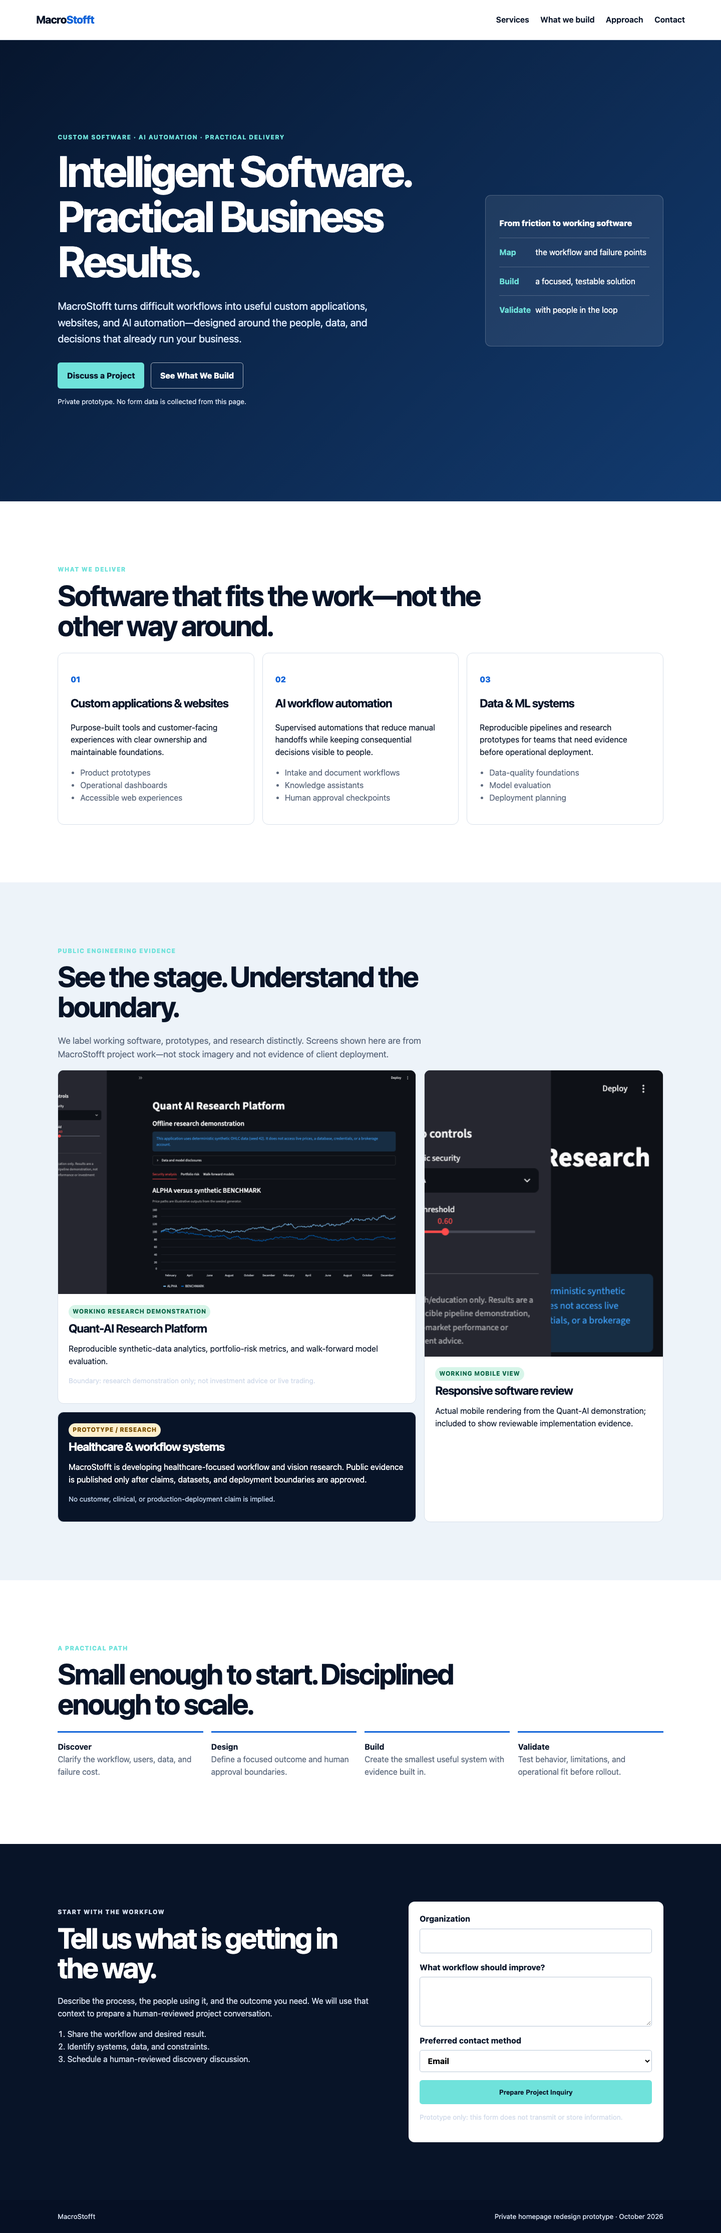
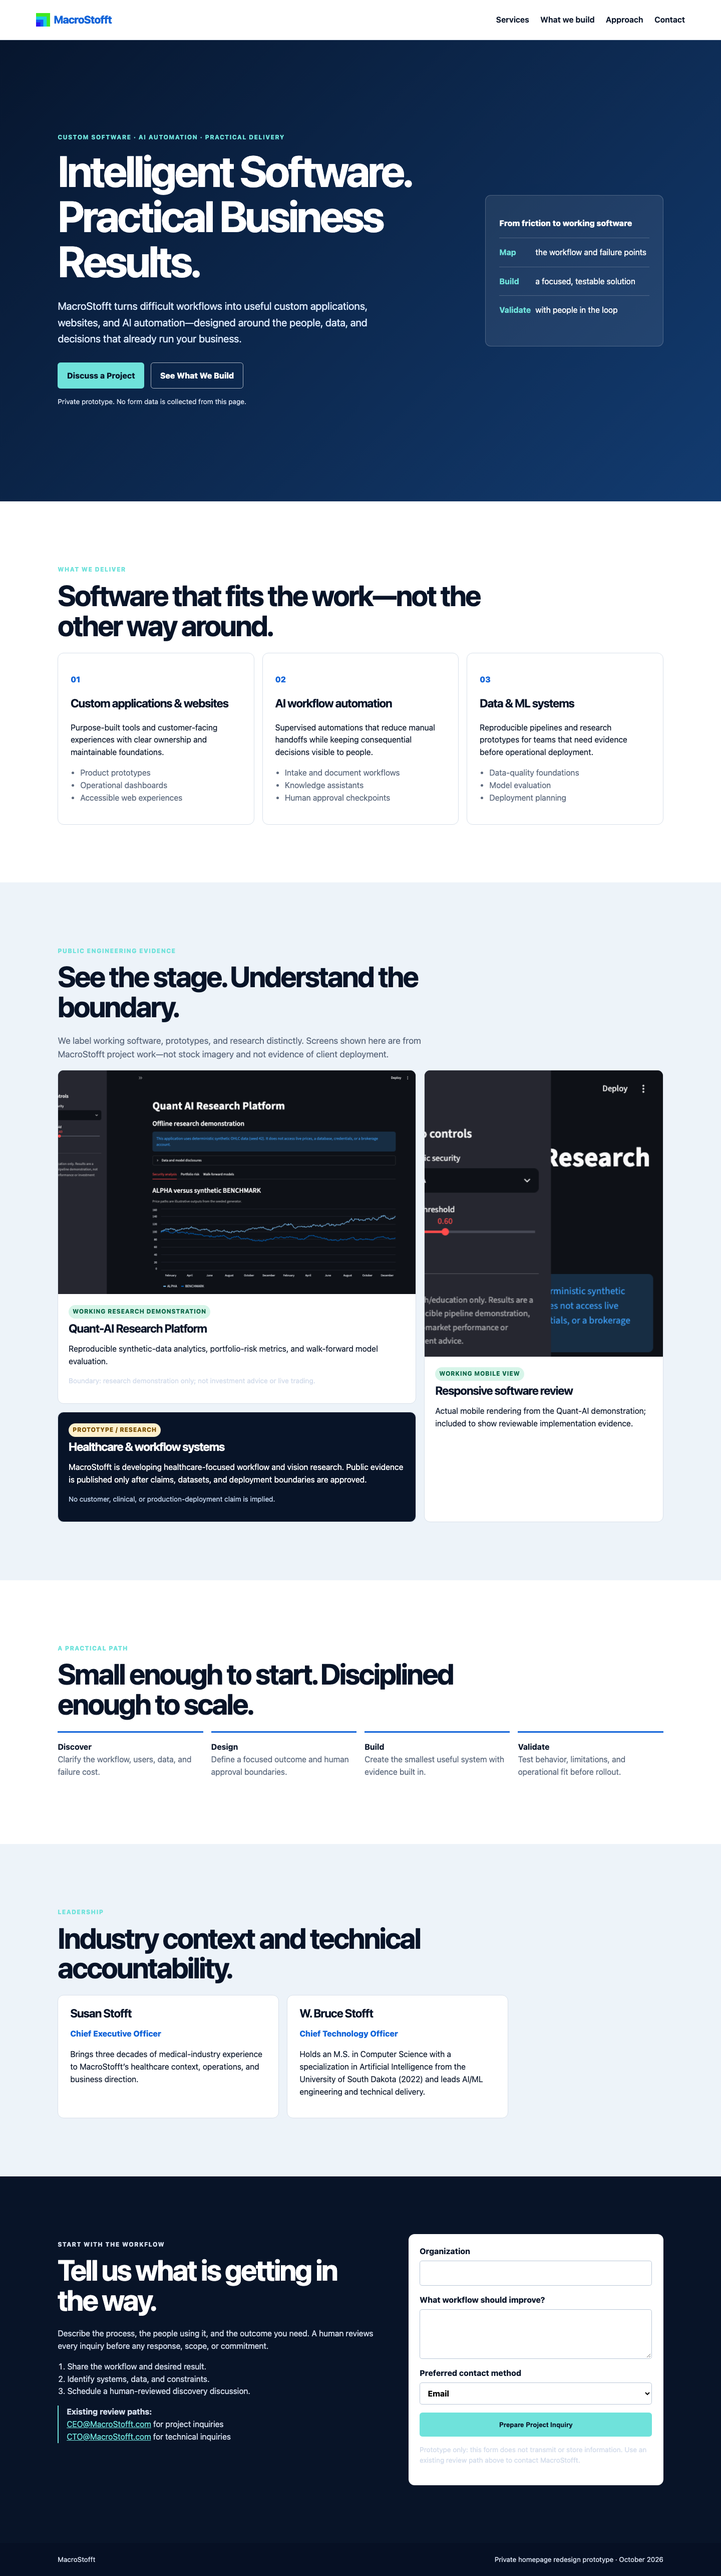
fix: retain homepage identity and review paths

diff --git a/prototype/styles.css b/prototype/styles.css
@@ -1,9 +1,9 @@
 :root { --ink:#081428; --navy:#102a4c; --blue:#1264d9; --aqua:#6fe2db; --cream:#f4f5f7; --white:#fff; --muted:#5c697d; --line:#d8e0ea; --shadow:0 18px 44px rgba(8,20,40,.12); }
 * { box-sizing:border-box; } html { scroll-behavior:smooth; } body { margin:0; color:var(--ink); background:var(--cream); font:16px/1.55 Inter, ui-sans-serif, system-ui, -apple-system, BlinkMacSystemFont, "Segoe UI", sans-serif; } a { color:inherit; } .skip-link { position:absolute; left:1rem; top:-4rem; background:var(--white); padding:.6rem 1rem; z-index:5; } .skip-link:focus { top:1rem; }
-.site-header { min-height:80px; display:flex; align-items:center; justify-content:space-between; gap:2rem; padding:1.2rem clamp(1.25rem,5vw,6rem); background:var(--white); border-bottom:1px solid var(--line); position:sticky; top:0; z-index:2; } .brand { font-size:1.35rem; font-weight:800; text-decoration:none; letter-spacing:-.04em; } .brand span { color:var(--blue); } nav { display:flex; gap:1.4rem; } nav a { font-weight:650; text-decoration:none; } nav a:hover, nav a:focus-visible { color:var(--blue); } .menu-button { display:none; }
+.site-header { min-height:80px; display:flex; align-items:center; justify-content:space-between; gap:2rem; padding:1.2rem clamp(1.25rem,5vw,6rem); background:var(--white); border-bottom:1px solid var(--line); position:sticky; top:0; z-index:2; } .brand { display:inline-flex; align-items:center; gap:.45rem; font-size:1.35rem; font-weight:800; text-decoration:none; letter-spacing:-.04em; } .brand img { width:28px; height:28px; object-fit:contain; } .brand span { color:var(--blue); } nav { display:flex; gap:1.4rem; } nav a { font-weight:650; text-decoration:none; } nav a:hover, nav a:focus-visible { color:var(--blue); } .menu-button { display:none; }
 .hero, .section { padding:clamp(4rem,8vw,8rem) clamp(1.25rem,8vw,10rem); } .hero { min-height:calc(100vh - 80px); display:grid; grid-template-columns:minmax(0,1.35fr) minmax(280px,.65fr); gap:clamp(2rem,8vw,8rem); align-items:center; background:linear-gradient(135deg,#07162e 0%,#123b70 100%); color:var(--white); } .eyebrow { margin:0 0:1rem; color:var(--aqua); letter-spacing:.11em; font-size:.75rem; font-weight:800; text-transform:uppercase; } h1,h2,h3 { line-height:1.04; letter-spacing:-.045em; } h1 { max-width:800px; margin:0; font-size:clamp(3rem,6vw,6.5rem); } h2 { max-width:860px; margin:.1rem 0 1.5rem; font-size:clamp(2.15rem,4vw,4.2rem); } h3 { font-size:1.45rem; } .lede { max-width:690px; margin:1.8rem 0; font-size:clamp(1.05rem,1.5vw,1.3rem); color:#dceafd; } .hero-actions { display:flex; flex-wrap:wrap; gap:.8rem; margin:2rem 0 1rem; } .button { display:inline-flex; align-items:center; justify-content:center; min-height:48px; padding:.8rem 1.1rem; border:1px solid transparent; border-radius:.35rem; font-weight:800; text-decoration:none; cursor:pointer; } .button-primary { background:var(--aqua); color:var(--ink); } .button-primary:hover,.button-primary:focus-visible { background:#a1f4ed; } .button-secondary { border-color:rgba(255,255,255,.65); color:var(--white); } .hero-note,.form-note,.boundary { font-size:.86rem; color:#d3dceb; } .hero-panel { padding:1.7rem; background:rgba(255,255,255,.08); border:1px solid rgba(255,255,255,.2); border-radius:.7rem; } .panel-label { font-weight:800; } .hero-panel ol { padding:0; list-style:none; } .hero-panel li { display:grid; grid-template-columns:4rem 1fr; gap:.5rem; padding:1rem 0; border-top:1px solid rgba(255,255,255,.2); } .hero-panel strong { color:var(--aqua); }
 .section { background:var(--white); } .section:nth-of-type(odd) { background:#edf3f9; } .section-heading > p:not(.eyebrow) { max-width:760px; color:var(--muted); font-size:1.1rem; } .card-grid { display:grid; grid-template-columns:repeat(3,1fr); gap:1rem; } .service-card,.project-card { border:1px solid var(--line); border-radius:.75rem; background:var(--white); overflow:hidden; } .service-card { padding:1.55rem; } .card-number { color:var(--blue); font-weight:850; } .service-card ul { padding-left:1.2rem; color:var(--muted); }
 .proof-grid { display:grid; grid-template-columns:1.2fr .8fr; gap:1rem; } .project-card img { display:block; width:100%; aspect-ratio:16/10; object-fit:cover; object-position:top; background:#14263f; } .project-content,.text-project { padding:1.3rem; } .project-content h3,.text-project h3 { margin:.5rem 0; } .stage { display:inline-block; margin:0; padding:.25rem .5rem; border-radius:999px; font-size:.75rem; font-weight:800; text-transform:uppercase; letter-spacing:.06em; } .working { background:#d7f5e9; color:#0b6647; } .prototype { background:#fff0cd; color:#7a5000; } .compact-project { grid-row:span 2; } .compact-project img { aspect-ratio:10/12; object-fit:cover; object-position:top; } .text-project { background:var(--ink); color:var(--white); } .text-project .boundary { color:#bed0e8; }
-.approach-list { display:grid; grid-template-columns:repeat(4,1fr); gap:1rem; padding:0; list-style:none; } .approach-list li { border-top:3px solid var(--blue); padding-top:1rem; } .approach-list strong,.approach-list span { display:block; } .approach-list span { color:var(--muted); } .contact { display:grid; grid-template-columns:1fr minmax(280px,.8fr); gap:4rem; background:var(--ink)!important; color:var(--white); } .contact .lede,.contact p { color:#d3dceb; } .inquiry-steps { padding-left:1.2rem; color:#d3dceb; } .inquiry-form { display:grid; gap:1rem; align-content:start; padding:1.4rem; background:var(--white); color:var(--ink); border-radius:.75rem; } label { display:grid; gap:.4rem; font-weight:750; } input,textarea,select { width:100%; padding:.7rem; border:1px solid #b9c7d7; border-radius:.3rem; font:inherit; } .form-note,.form-status { margin:0; color:var(--muted); } footer { display:flex; justify-content:space-between; gap:1rem; padding:1.4rem clamp(1.25rem,8vw,10rem); background:#061024; color:#d3dceb; font-size:.85rem; }
-@media (max-width:800px) { .site-header { min-height:66px; } .menu-button { display:block; padding:.45rem .7rem; border:1px solid var(--line); border-radius:.25rem; background:var(--white); font:inherit; font-weight:750; } nav { display:none; position:absolute; top:65px; left:0; right:0; padding:1rem 1.25rem; background:var(--white); border-bottom:1px solid var(--line); flex-direction:column; } nav.is-open { display:flex; } .hero,.contact { grid-template-columns:1fr; } .hero { min-height:auto; padding-top:4rem; } .card-grid,.proof-grid,.approach-list { grid-template-columns:1fr; } .compact-project { grid-row:auto; } .compact-project img { aspect-ratio:16/10; } footer { flex-direction:column; } }
+.approach-list { display:grid; grid-template-columns:repeat(4,1fr); gap:1rem; padding:0; list-style:none; } .approach-list li { border-top:3px solid var(--blue); padding-top:1rem; } .approach-list strong,.approach-list span { display:block; } .approach-list span { color:var(--muted); } .leadership-grid { display:grid; grid-template-columns:repeat(2,1fr); gap:1rem; max-width:900px; } .leadership-grid article { padding:1.5rem; border:1px solid var(--line); border-radius:.75rem; background:var(--white); } .leadership-grid h3 { margin:0; } .leadership-role { color:var(--blue); font-weight:800; } .contact { display:grid; grid-template-columns:1fr minmax(280px,.8fr); gap:4rem; background:var(--ink)!important; color:var(--white); } .contact .lede,.contact p { color:#d3dceb; } .inquiry-steps { padding-left:1.2rem; color:#d3dceb; } .contact-details { border-left:2px solid var(--aqua); padding-left:1rem; } .contact-details a { color:var(--aqua); } .inquiry-form { display:grid; gap:1rem; align-content:start; padding:1.4rem; background:var(--white); color:var(--ink); border-radius:.75rem; } label { display:grid; gap:.4rem; font-weight:750; } input,textarea,select { width:100%; padding:.7rem; border:1px solid #b9c7d7; border-radius:.3rem; font:inherit; } .form-note,.form-status { margin:0; color:var(--muted); } footer { display:flex; justify-content:space-between; gap:1rem; padding:1.4rem clamp(1.25rem,8vw,10rem); background:#061024; color:#d3dceb; font-size:.85rem; }
+@media (max-width:800px) { .site-header { min-height:66px; } .menu-button { display:block; padding:.45rem .7rem; border:1px solid var(--line); border-radius:.25rem; background:var(--white); font:inherit; font-weight:750; } nav { display:none; position:absolute; top:65px; left:0; right:0; padding:1rem 1.25rem; background:var(--white); border-bottom:1px solid var(--line); flex-direction:column; } nav.is-open { display:flex; } .hero,.contact { grid-template-columns:1fr; } .hero { min-height:auto; padding-top:4rem; } .card-grid,.proof-grid,.approach-list,.leadership-grid { grid-template-columns:1fr; } .compact-project { grid-row:auto; } .compact-project img { aspect-ratio:16/10; } footer { flex-direction:column; } }
 @media (max-width:420px) { h1 { font-size:2.8rem; } .hero-actions .button { width:100%; } .hero-panel { padding:1.1rem; } }

diff --git a/prototype/index.html b/prototype/index.html
@@ -10,7 +10,7 @@
   <body>
     <a class="skip-link" href="#main">Skip to content</a>
     <header class="site-header">
-      <a class="brand" href="#top" aria-label="MacroStofft home">Macro<span>Stofft</span></a>
+      <a class="brand" href="#top" aria-label="MacroStofft home"><img src="assets/macrostofft-logo.png" alt="" /><span>MacroStofft</span></a>
       <button class="menu-button" type="button" aria-expanded="false" aria-controls="site-nav">Menu</button>
       <nav id="site-nav" aria-label="Primary navigation">
         <a href="#services">Services</a>
@@ -112,19 +112,28 @@
         </ol>
       </section>
 
+      <section id="leadership" class="section leadership" aria-labelledby="leadership-title">
+        <div class="section-heading"><p class="eyebrow">Leadership</p><h2 id="leadership-title">Industry context and technical accountability.</h2></div>
+        <div class="leadership-grid">
+          <article><h3>Susan Stofft</h3><p class="leadership-role">Chief Executive Officer</p><p>Brings three decades of medical-industry experience to MacroStofft’s healthcare context, operations, and business direction.</p></article>
+          <article><h3>W. Bruce Stofft</h3><p class="leadership-role">Chief Technology Officer</p><p>Holds an M.S. in Computer Science with a specialization in Artificial Intelligence from the University of South Dakota (2022) and leads AI/ML engineering and technical delivery.</p></article>
+        </div>
+      </section>
+
       <section id="contact" class="section contact" aria-labelledby="contact-title">
         <div class="contact-copy">
           <p class="eyebrow">Start with the workflow</p>
           <h2 id="contact-title">Tell us what is getting in the way.</h2>
-          <p>Describe the process, the people using it, and the outcome you need. We will use that context to prepare a human-reviewed project conversation.</p>
+          <p>Describe the process, the people using it, and the outcome you need. A human reviews every inquiry before any response, scope, or commitment.</p>
           <ol class="inquiry-steps"><li>Share the workflow and desired result.</li><li>Identify systems, data, and constraints.</li><li>Schedule a human-reviewed discovery discussion.</li></ol>
+          <p class="contact-details"><strong>Existing review paths:</strong><br /><a href="mailto:CEO@MacroStofft.com?subject=MacroStofft%20Project%20Inquiry">CEO@MacroStofft.com</a> for project inquiries<br /><a href="mailto:CTO@MacroStofft.com?subject=MacroStofft%20Technical%20Inquiry">CTO@MacroStofft.com</a> for technical inquiries</p>
         </div>
         <form class="inquiry-form" data-demo-form aria-describedby="form-note">
           <label>Organization <input name="organization" autocomplete="organization" /></label>
           <label>What workflow should improve? <textarea name="workflow" rows="3"></textarea></label>
           <label>Preferred contact method <select name="contact"><option>Email</option><option>Phone</option><option>Other</option></select></label>
           <button class="button button-primary" type="submit">Prepare Project Inquiry</button>
-          <p id="form-note" class="form-note">Prototype only: this form does not transmit or store information.</p>
+          <p id="form-note" class="form-note">Prototype only: this form does not transmit or store information. Use an existing review path above to contact MacroStofft.</p>
           <p class="form-status" aria-live="polite"></p>
         </form>
       </section>

diff --git a/prototype/CHANGELOG.md b/prototype/CHANGELOG.md
@@ -13,6 +13,8 @@
 - Service cards name concrete outputs: applications/websites, supervised automation, and data/ML systems.
 - Proof uses actual Quant-AI screenshots, labeled as working research demonstration/mobile view; health and workflow items are labeled prototype/research with explicit boundaries.
 - Contact is an accessible, non-transmitting prototype form with a three-step human-reviewed inquiry workflow.
+- Leadership now identifies Susan Stofft (CEO; three decades of medical-industry experience) and W. Bruce Stofft (CTO; M.S. Computer Science, AI specialization, University of South Dakota, 2022).
+- The existing green-and-blue MacroStofft logo mark and existing role-based CEO/CTO email paths are retained; no backend is activated.
 - Navigation, colors, and an editorial blue/white visual system are preserved in a responsive static prototype.
 
 ## Safety and publication boundary
